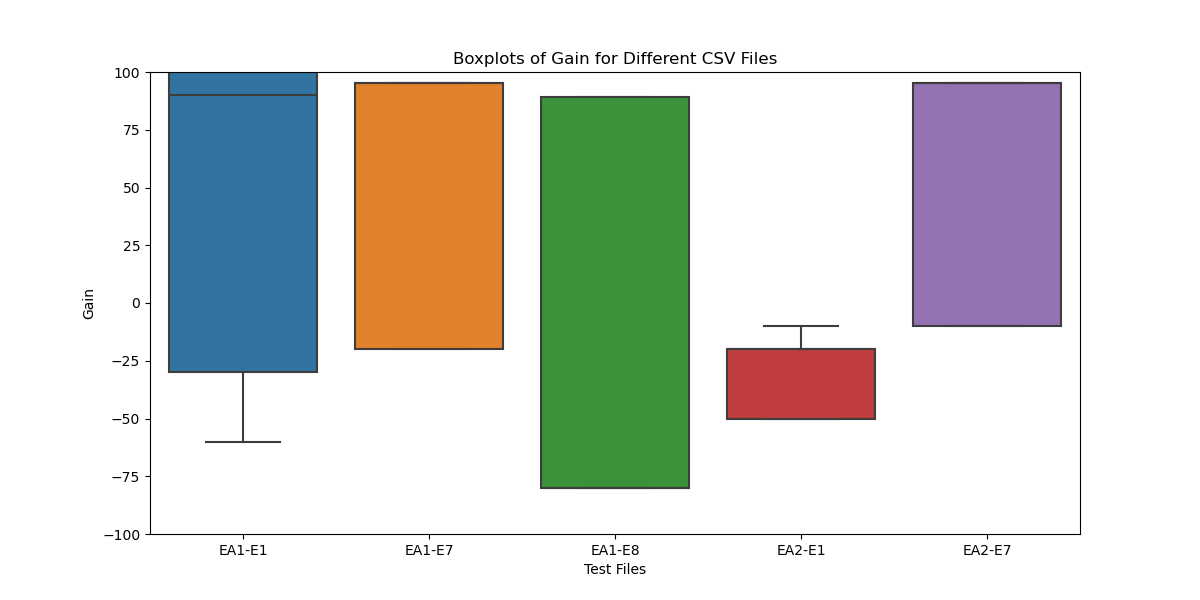
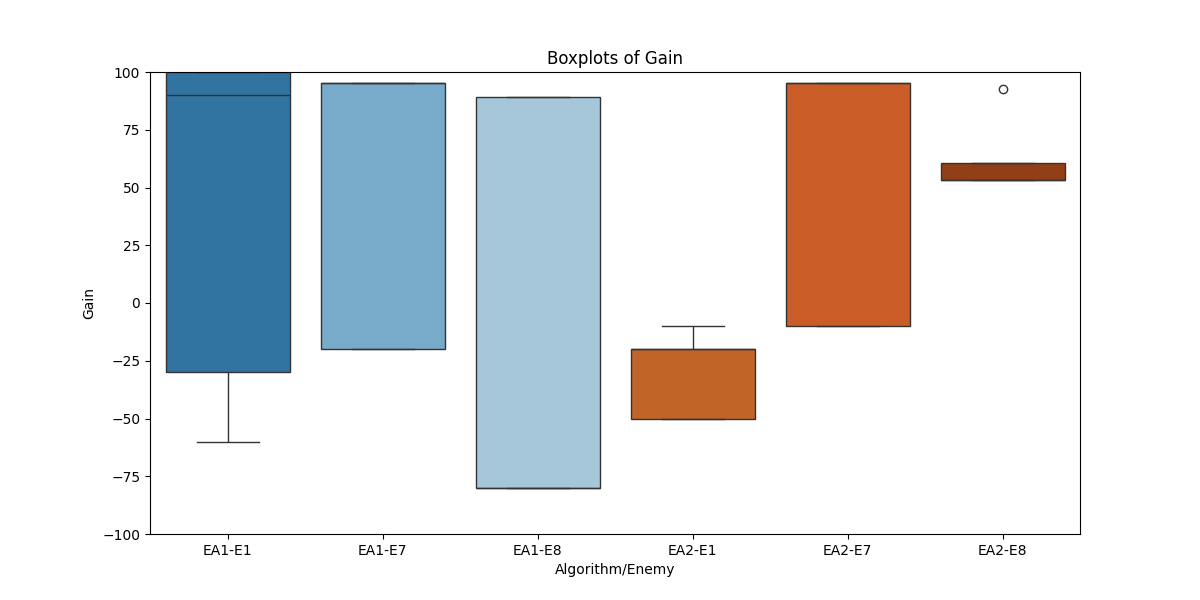
Box plot with enemy 8

diff --git a/visualization/box-plot.py b/visualization/box-plot.py
@@ -4,51 +4,58 @@ import matplotlib.pyplot as plt
 import os
 
 # Step 1: Define the directory where CSV files are located
-data_dir = 'testing/'
+data_dir = '../testing/'
 
 # Step 2: Define the list of CSV file names
-csv_files = ['test_ea1_e1.csv', 'test_ea1_e7.csv', 'test_ea1_e8.csv', 
-             'test_ea2_e1.csv', 'test_ea2_e7.csv'] # 'test_ea2_e8.csv']
+csv_files = ['test_ea1_e1.csv', 'test_ea1_e7.csv', 'test_ea1_e8.csv',
+             'test_ea2_e1.csv', 'test_ea2_e7.csv', 'test_ea2_e8.csv']
 
-# Step 3: Create an empty list to store the average gains for each file
+# Create a list of labels for the boxplots
+labels = ['EA1-E1', 'EA1-E7', 'EA1-E8', 'EA2-E1', 'EA2-E7', 'EA2-E8']
+
+# Step 3: Create an empty list to store the data
 gain_data = []
 
 # Step 4: Loop through the CSV files, read each one, and compute the average 'gain'
-for csv_file in csv_files:
+for csv_file, label in zip(csv_files, labels):
     file_path = os.path.join(data_dir, csv_file)
-    
+
     # Load the CSV file into a DataFrame
     df = pd.read_csv(file_path)
-    
-    # Append the 'gain' column to the gain_data list
-    gain_data.append(df['gain'])
 
-# Step 5: Prepare the plot with 6 boxplots side by side
+    # Append the 'gain' column and the corresponding label to gain_data
+    for gain in df['gain']:
+        gain_data.append({'gain': gain, 'label': label})
+
+# Step 5: Convert the gain_data list into a DataFrame
+df_combined = pd.DataFrame(gain_data)
+
+# Step 6: Prepare the plot with 6 boxplots side by side
 plt.figure(figsize=(12, 6))
 
-# Create a list of labels for the boxplots
-labels = ['EA1-E1', 'EA1-E7', 'EA1-E8', 'EA2-E1', 'EA2-E7'] #, 'EA2-E8']
+# Custom list of colors (replace these with the colors you like)
+custom_colors = ['#1f77b4', '#6baed6', '#9ecae1',  # Blue shades
+                 '#d95f0e', '#e6550d', '#a63603']  # Orange/brown shades
 
-# Plot the boxplots for the gain data from all CSVs
-sns.boxplot(data=gain_data)
+# Plot the boxplots with different colors using the palette
+sns.boxplot(x='label', y='gain', data=df_combined, palette=custom_colors)
 
-# Step 6: Set the plot attributes
+# Step 7: Set the plot attributes
 plt.ylim(-100, 100)
-plt.title('Boxplots of Gain for Different CSV Files')
-plt.xlabel('Test Files')
+plt.title('Boxplots of Gain')
+plt.xlabel('Algorithm/Enemy')
 plt.ylabel('Gain')
-plt.xticks(ticks=range(len(labels)), labels=labels)
 
-# Step 7: Create the directory to save the plot if it doesn't exist
-save_dir = 'graphs/box-plots/'
+# Step 8: Create the directory to save the plot if it doesn't exist
+save_dir = '../graphs/box-plots/'
 if not os.path.exists(save_dir):
     os.makedirs(save_dir)
 
-# Step 8: Save the plot to the specified folder
+# Step 9: Save the plot to the specified folder
 plot_path = os.path.join(save_dir, 'gain_boxplot_comparison.png')
 plt.savefig(plot_path)
 
-# Step 9: Show the plot
+# Step 10: Show the plot
 plt.grid(True)
 plt.show()
 
